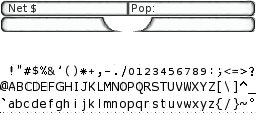
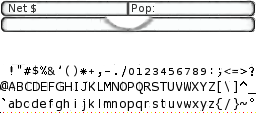
Added cost of building to the strategies. Tower now maintains it's own funds. Cost of rooms are deducted from the towers funds. clean up clock shadow on week/date bar.
git-svn-id: https://svn.code.sf.net/p/highrisedev/code@178 f146f8d7-247d-460d-a1b3-d0a612191574

Changed region(s): [[0.0312, 0.125, 0.9688, 0.25]]

diff --git a/Tower/BuildStrategies.cpp b/Tower/BuildStrategies.cpp
@@ -53,81 +53,81 @@ BuildStrategyBase* BuildStrategyBase::CreateStrategy(int toolID, Tower* pTower)
    switch (toolID)
    {
    case HR_PlaceOffice:
-      pBuildStrategy = new BuildRoomStrategy<Office>(8,1);
+      pBuildStrategy = new BuildRoomStrategy<Office>(8,1, 40000);
       pBuildStrategy->ShowGhostBuild (pTower);
       break;
 
    case HR_PlaceApartment:
-      pBuildStrategy = new BuildRoomStrategy<Apartment>(8,1);
+      pBuildStrategy = new BuildRoomStrategy<Apartment>(8,1, 30000);
       pBuildStrategy->ShowGhostBuild (pTower);
       break;
    case HR_PlaceCondo:
-      pBuildStrategy = new BuildRoomStrategy<Condo>(14,1);
+      pBuildStrategy = new BuildRoomStrategy<Condo>(14,1, 100000);
       pBuildStrategy->ShowGhostBuild (pTower);
       break;
    case HR_PlaceHotelSingle:
-      pBuildStrategy = new BuildRoomStrategy<HotelRoom>(6,1);
+      pBuildStrategy = new BuildRoomStrategy<HotelRoom>(6,1, 20000);
       pBuildStrategy->ShowGhostBuild (pTower);
       break;
 
    case HR_PlaceHotelDouble:
-      pBuildStrategy = new BuildRoomStrategy<HotelRoom>(7,1);
+      pBuildStrategy = new BuildRoomStrategy<HotelRoom>(7,1, 25000);
       pBuildStrategy->ShowGhostBuild (pTower);
       break;
 
    case HR_PlaceHotelKing:
-      pBuildStrategy = new BuildRoomStrategy<HotelRoom>(8,1);
+      pBuildStrategy = new BuildRoomStrategy<HotelRoom>(8,1, 30000);
       pBuildStrategy->ShowGhostBuild (pTower);
       break;
 
    case HR_PlaceHotelSuite:
-      pBuildStrategy = new BuildRoomStrategy<HotelRoom>(9,1); // luxury suite
+      pBuildStrategy = new BuildRoomStrategy<HotelRoom>(9,1, 50000); // luxury suite
       pBuildStrategy->ShowGhostBuild (pTower);
       break;
 
    case HR_PlaceSecurity:
-      pBuildStrategy = new BuildRoomStrategy<Security>(12,1);
+      pBuildStrategy = new BuildRoomStrategy<Security>(12,1, 250000);
       pBuildStrategy->ShowGhostBuild (pTower);
       break;
 
    case HR_PlaceHouseKeeping:
-      pBuildStrategy = new BuildRoomStrategy<Housekeeping>(12,1);
+      pBuildStrategy = new BuildRoomStrategy<Housekeeping>(12,1, 125000);
       pBuildStrategy->ShowGhostBuild (pTower);
       break;
 
    case HR_PlaceClinic:
-      pBuildStrategy = new BuildRoomStrategy<MedicalClinic>(14,1);
+      pBuildStrategy = new BuildRoomStrategy<MedicalClinic>(14,1, 500000);
       pBuildStrategy->ShowGhostBuild (pTower);
       break;
 
    case HR_PlaceRestaurant:
-      //pBuildStrategy = new BuildRoomStrategy<Restaurant>(12,1);
+      //pBuildStrategy = new BuildRoomStrategy<Restaurant>(12,1, 200000);
       //pBuildStrategy->ShowGhostBuild (pTower);
       break;
 
    case HR_PlaceRetail:
-      pBuildStrategy = new BuildRoomStrategy<RetailShop>(10,1);
+      pBuildStrategy = new BuildRoomStrategy<RetailShop>(10,1, 100000);
       pBuildStrategy->ShowGhostBuild (pTower);
       break;
 
    case HR_PlaceStairs:
-      pBuildStrategy = new BuildRouteStrategy<SingleStair>(3,1);
+      pBuildStrategy = new BuildRouteStrategy<SingleStair>(3,1);//, 5000);
       pBuildStrategy->ShowGhostBuild (pTower);
       break;
 
    case HR_PlaceWasteManagement:
-      pBuildStrategy = new BuildRoomStrategy<WasteManagement>(16,2);
+      pBuildStrategy = new BuildRoomStrategy<WasteManagement>(16,2, 75000);
       pBuildStrategy->ShowGhostBuild (pTower);
       break;
    }
    //case HR_PlaceServices:
-   //   pBuildStrategy = new BuildRoomStrategy<Housekeeping>(12,1);
+   //   pBuildStrategy = new BuildRoomStrategy<Housekeeping>(12,1, 650000);
    //   pBuildStrategy->ShowGhostBuild (pTower);
    //   bResult = true;
    //   break;
 
    //case HR_PlaceTheater:
-   //   pBuildStrategy = new BuildRoomStrategy<Clinic>(0,1);
+   //   pBuildStrategy = new BuildRoomStrategy<Clinic>(0,1, 1500000); /// 1.5mil
    //   pBuildStrategy->ShowGhostBuild (pTower);
    //   bResult = true;
    //   break;

diff --git a/Tower/BuildStrategies.h b/Tower/BuildStrategies.h
@@ -29,6 +29,7 @@ protected:
    // subtype maybe, reception, cubes, datacente, boardroom (offices) or luxury/studio apt.
    int mWidth;    // in units of 9 pixels
    int mHeight;   // Levels (1,2 or 3)
+   double mCost;
 
    BuildStrategyBase()
    {
@@ -37,8 +38,9 @@ protected:
 public:
    static BuildStrategyBase* CreateStrategy(int ToolID, Tower* pTower);
    // get/set properties
-   int GetWidth() { return mWidth; };
-   int GetHeight() { return mHeight; };
+   int GetWidth() { return mWidth; }
+   int GetHeight() { return mHeight; }
+   double GetCost() { return mCost; }
 public:
    virtual bool PlacingRoom() { return false; }
    virtual bool BuildHere (Tower* pTowwer, int x, int y);
@@ -52,16 +54,20 @@ template <class T>
 class BuildRoomStrategy : public BuildStrategyBase
 {
 public:
-   BuildRoomStrategy(int width, int height)
+   BuildRoomStrategy(int width, int height, double cost)
    {
       mType = T::GetBaseType();
       mWidth = width;
       mHeight = height;
+      mCost = cost;
    }
    bool BuildHere (Tower* pTower, int x, int y)
    {
       // we don't have multi tower support yet but this will eventually deal with that
       Level* pLevel = pTower->GetLevel(y);
+      double dCash = pTower->GetAvailableFunds();
+      if( dCash < this->mCost)
+         return false;
 
       int xx = x * Level::mUnitSize;
       bool bAvail = pLevel->IsSpaceEmpty (xx, xx + mWidth * Level::mUnitSize);
@@ -69,6 +75,7 @@ public:
       {
          FloorBase* pRoom = new T(xx, y, pTower); //OnToolHit is going to set this up, when we hit the floor
          pLevel->AddFloorSpace (pRoom);
+         pTower->AdjustFunds( -mCost );
       }
       return true;
    }
@@ -96,15 +103,19 @@ public:
       // we don't have multi tower support yet but this will eventually deal with that
       Level* pBottomLevel = pTower->GetLevel(BottomLevel);
       Level* pTopLevel = pTower->GetLevel(TopLevel);
-
+      double dCash = pTower->GetAvailableFunds();
+      if( dCash < this->mCost)
+         return false;
 
       int xx = x * Level::mUnitSize;
       // Shouldn't we have a dedicated function for checking if transport can be placed here?
       // in the original, it's on a different "layer"
       bool bAvail = true;
-      for (int i = BottomLevel; i < TopLevel; i++) {
+      for (int i = BottomLevel; i < TopLevel; i++)
+      {
          Level* pLevel = pTower->GetLevel(i);
-         if (!pBottomLevel->IsSpaceEmpty (xx, xx + mWidth * Level::mUnitSize)) {
+         if (!pBottomLevel->IsSpaceEmpty (xx, xx + mWidth * Level::mUnitSize))
+         {
             bAvail = false;
             break;
          }

diff --git a/Root/FinancialBase.h b/Root/FinancialBase.h
@@ -1,0 +1,53 @@
+/*   This file is part of Highrise Developer.
+ *
+ *   Highrise Developer is free software: you can redistribute it and/or modify
+ *   it under the terms of the GNU General Public License as published by
+ *   the Free Software Foundation, either version 3 of the License, or
+ *   (at your option) any later version.
+
+ *   Highrise Developer is distributed in the hope that it will be useful,
+ *   but WITHOUT ANY WARRANTY; without even the implied warranty of
+ *   MERCHANTABILITY or FITNESS FOR A PARTICULAR PURPOSE.  See the
+ *   GNU General Public License for more details.
+ *
+ *   You should have received a copy of the GNU General Public License
+ *   along with Highrise Developer.  If not, see <http://www.gnu.org/licenses/>.
+ */
+
+// root financial base for setting up cost and income of rooms
+#pragma once
+#ifndef _FINANCIALBASE_H
+#define _FINANCIALBASE_H
+
+class Tower;
+class Scene;
+class TiXmlElement;
+class TiXmlNode;
+
+// Tower is a ModelObject along with all the FloorSpace entities
+// This renderes the Tower in the ModelSpaces with perspective, pan and zoom.
+namespace Root
+{
+   enum BillingFrequency
+   {
+      BF_Never = 0,
+      BF_Daily,
+      BF_Weekly,
+      BF_Monthly,
+      BF_Annually,
+      BF_Custome
+   }
+}
+
+class FinancialBase
+{
+
+private:
+   double BaseCost;
+
+public:
+   FinancialBase( ) {};
+   ~FinancialBase() {}
+};
+
+#endif //_FINANCIALBASE_H

diff --git a/HighRiseDev.cpp b/HighRiseDev.cpp
@@ -52,9 +52,10 @@ main ()
 
    Interface* pInterface = new Interface();
    Scene theScene;
-   Tower theTower (1, 10, theScene); // numero uno with 10 sub levels
-   theScene.AddTower (&theTower); // pointer for graphics
-   CitizensAgent People( theTower ); // known tower, later this will be a tower list for mutiple towers
+   Tower theTower (1, 10, theScene);   // numero uno with 10 sub levels
+   theTower.AdjustFunds( 1000000 );     // start with 1Mil
+   theScene.AddTower (&theTower);      // pointer for graphics
+   CitizensAgent People( theTower );   // known tower, later this will be a tower list for mutiple towers
 
    sf::String Title( string("Alpha"));
 
@@ -110,6 +111,7 @@ main ()
             break;
          case 1:
             pInterface->mStats.SetPopulation( theTower.GetPopulation() );
+            pInterface->mStats.SetNet( theTower.GetAvailableFunds() );
             pInterface->Update(10);
             break;
          default:

diff --git a/Tower/Tower.h b/Tower/Tower.h
@@ -47,6 +47,7 @@ class Tower : public Gfx::ModelObject
    int mTowerNo;
    int mNo_SubLevels;
    int mPopulation;  // People in the tower currently
+   double mAvailableFunds;
 
    std::vector<Level*> mLevels;     // Lobby is at mNo_SubLevels not zero
    Routes mRoutes;
@@ -64,6 +65,8 @@ public:
    // properties
    inline Routes& GetRoutes() { return mRoutes; } // For routing citizens
    inline int GetPopulation() { return mPopulation; }
+   inline double GetAvailableFunds() { return mAvailableFunds; }
+   void AdjustFunds (double amt) { mAvailableFunds += amt; }  // pass neg value to subtract
    inline Scene& GetScene() { return mScene; }
    inline GhostRoom& GetGhostRoom() {  return mGhostRoom; }
 

diff --git a/Window/Stats.cpp b/Window/Stats.cpp
@@ -27,7 +27,7 @@ namespace UI
 {
    // this defines the coordinates to map the texture image from in pairs
    const float OtherUVs[8] =
-   { 0.0f, 0.125f,  0.0f, 0.25f,  1.0f, 0.25f,  1.0f, 0.125f }; // trim the right rounded edge
+   { 0.0f, 0.128f,  0.0f, 0.25f,  1.0f, 0.25f,  1.0f, 0.128f }; // trim the right rounded edge
    const float StatBarUVs[8] =   // stats.png
    { 0.0f, 0.0f,  0.0f, 0.125f,  1.0f, 0.125f,  1.0f, 0.0f };
 }

diff --git a/Tower/Tower.cpp b/Tower/Tower.cpp
@@ -36,6 +36,7 @@ Tower::Tower (int towerNo, int NoSubLevels, Scene& rScene )
 ,  mGhostRoom (0,0)
 {
    mPopulation = 0;
+   mAvailableFunds = 0;
    int nsubs = -NoSubLevels;
    for (int sub = nsubs; sub < 0; ++sub)
    {
